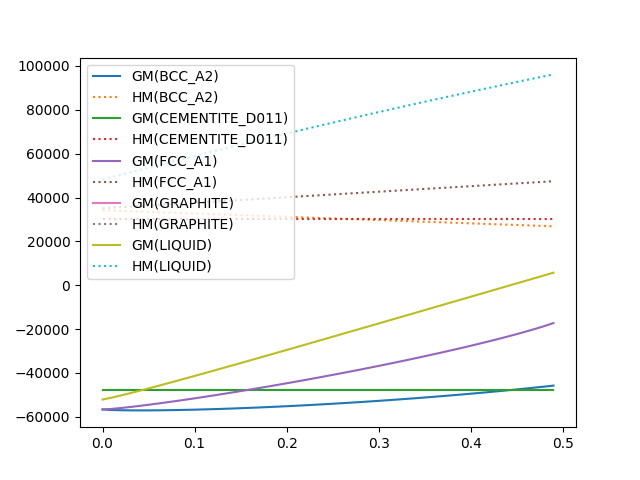
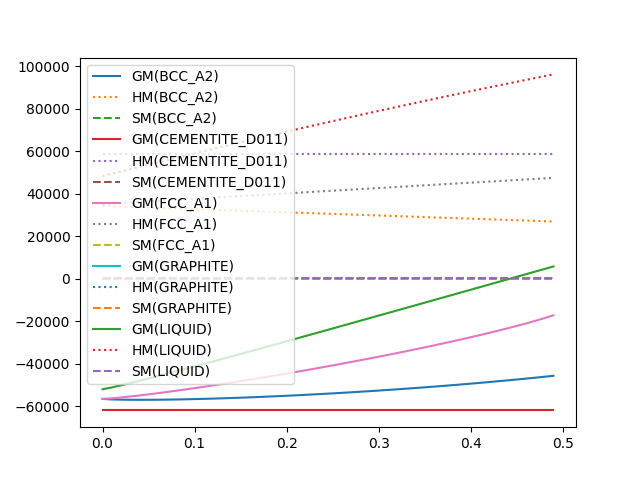
fix(espei-support): Normalizing energy values by mole-formula units when saving in ESPEI json formats. Re-fit LC-steels and re-ran C-FE system energy plots. Progress

diff --git a/libreCalphad/databases/LC-steels_validation/C-FE/C-FE.py b/libreCalphad/databases/LC-steels_validation/C-FE/C-FE.py
@@ -1,6 +1,6 @@
 from datetime import date
 from espei.datasets import load_datasets, recursive_glob
-from espei.plot import dataplot
+from espei.plot import dataplot, plot_endmember, plot_interaction
 from libreCalphad.databases.db_utils import load_database
 import matplotlib.pyplot as plt
 from pycalphad import Workspace, variables as v
@@ -30,9 +30,6 @@ plt.savefig(f"./{comps[0]}-{comps[1]}-stable_phase_diagram.png")
 
 disabled_phases = ["GRAPHITE"]  # metastable next
 phases = [phase for phase in list(db.phases.keys()) if phase not in disabled_phases]
-with open("../../run_param_gen.yaml", "r") as f:
-    dataset_folder = yaml.safe_load(f)["system"]["datasets"]
-datasets = load_datasets(recursive_glob(dataset_folder))
 
 fig, ax = plt.subplots(figsize=(6, 4))
 comps = ["C", "FE", "VA"]
@@ -66,7 +63,18 @@ for temp in temps:
         prop_GM.display_name = f"GM({phase})"
         prop_HM = IsolatedPhase(phase, metastable_wks)(f"HM({phase})")
         prop_HM.display_name = f"HM({phase})"
+        prop_SM = IsolatedPhase(phase, metastable_wks)(f"SM({phase})")
+        prop_SM.display_name = f"SM({phase})"
         ax.plot(x, wks.get(prop_GM), label=prop_GM.display_name)
         ax.plot(x, wks.get(prop_HM), linestyle=":", label=prop_HM.display_name)
+        ax.plot(x, wks.get(prop_SM), linestyle="--", label=prop_SM.display_name)
     ax.legend()
     plt.savefig(f"./energies-{temp}.png")
+
+# specific interaction plots based on input data
+fig, ax = plt.subplots()
+plot_endmember(
+    db, comps, "CEMENTITE_D011", ("FE", "C"), "CPM_FORM", datasets=datasets, ax=ax
+)
+fig.tight_layout()
+plt.savefig("./CPM_FORM-CEMENTITE_D011.png")

diff --git a/libreCalphad/utilities.py b/libreCalphad/utilities.py
@@ -294,6 +294,11 @@ def write_energy_json(
     input_df = pd.read_csv(input_file, skiprows=[1])
     components = input_dict["components"]
     phases = input_dict["phases"]
+    # normalize to atoms per mole formula unit
+    if "atoms" in list(input_dict.keys()):
+        atoms = input_dict["atoms"]
+    else:
+        atoms = 1
     if espei_data_folder is not None:
         espei_data_folder = _format_espei_data_folder(espei_data_folder, components)
 
@@ -315,11 +320,15 @@ def write_energy_json(
                 elif values2["units"] == "kcal/mol":
                     out_df["values"] = out_df["values"] * 4184
                 elif values2["units"] == "cal":
-                    out_df["units"] = out_df["values"] * 4.184 / values2["moles"]
+                    out_df["values"] = out_df["values"] * 4.184
                 elif values2["units"] == "kcal":
-                    out_df["units"] = out_df["values"] * 4184 / values2["moles"]
+                    out_df["values"] = out_df["values"] * 4184
                 elif values2["units"] == "cal/gram-atom":
                     pass  # future reservation for this conversion
+                elif values2["units"] == "cal/mol/K":
+                    out_df["values"] = out_df["values"] * 4.184
+                # normalize to atoms per mole-formula unit
+                out_df["values"] = out_df["values"] / atoms
                 out_dict["values"] = [[[val] for val in list(out_df["values"].values)]]
 
         out_dict["conditions"] = conditions
